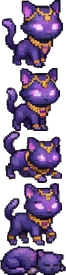
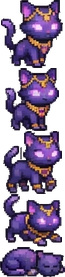
Thu cung: cat lai hinh (loc nen theo bang mau that, khong lung), thu nho khi ve
Claude-Session: https://claude.ai/code/session_01BbaPnvB8faX7q9HJ1URPie

diff --git a/public/js/pet.js b/public/js/pet.js
@@ -4,13 +4,15 @@
 (function () {
   const V = window.AV ? '?v=' + window.AV : '';
   const PETS = {
-    hong_long: { fly: 1, fireX: 0.83, glow: '#ff8a30' },
+    hong_long: { fly: 1, fireX: 0.83, glow: '#ff8a30', size: 0.6 },
     fauna:     { fly: 1, glow: '#9effa0' },
     fauna2:    { glow: '#7cff8a' },   // Mộc Linh Hộ Vệ (tiến hoá của Tiên Mộc Linh): đi bộ cầm giáo
     gears:     { glow: '#8fd0ff' },
     arcana:    { glow: '#d29cff' },
     ember:     { glow: '#ffa040' }
   };
+  const SIZE = 0.7;   // thu nhỏ thú cưng khi vẽ (hình gốc ~60px) – loài có size riêng thì dùng size đó
+  const sizeOf = pid => PETS[pid].size || SIZE;
   const res = {};
   for (const id in PETS) {
     const r = res[id] = { img: new Image(), meta: null };
@@ -83,9 +85,9 @@
   function aura(ctx, s, now, glow) {   // hào quang thú cưng Hiếm
     ctx.save(); ctx.globalCompositeOperation = 'lighter';
     const a = 0.35 + Math.sin(now / 300) * 0.12;
-    FX.glowDot(ctx, s.x, s.y - s.alt - 30, 46, glow, a, true);
+    const k = sizeOf(s.pid); FX.glowDot(ctx, s.x, s.y - s.alt - 30 * k, 46 * k, glow, a, true);
     ctx.restore();
-    if (Math.random() < 0.12) FX.emit(1, s.x + (Math.random() - 0.5) * 50, s.y - s.alt - 10 - Math.random() * 50, { speed: 10, vy: -25, life: 700, size: 2.5, color: glow, drag: 1 });
+    if (Math.random() < 0.12) FX.emit(1, s.x + (Math.random() - 0.5) * 50 * k, s.y - s.alt - (10 + Math.random() * 50) * k, { speed: 10, vy: -25, life: 700, size: 2.5, color: glow, drag: 1 });
   }
 
   function drawDragon(ctx, s, r, now) {
@@ -98,6 +100,7 @@
     else { row = meta.rows.idle; idx = Math.floor(now / 170) % row.n; }
     ctx.save();
     ctx.translate(Math.round(s.x), Math.round(s.y - (s.fireNow ? 0 : s.alt)));
+    ctx.scale(sizeOf(s.pid), sizeOf(s.pid));
     if (s.face === 1) ctx.scale(-1, 1);
     ctx.drawImage(r.img, idx * CW, row.y, CW, row.h, -CW / 2, -row.h, CW, row.h);
     ctx.restore();
@@ -137,6 +140,7 @@
     }
     ctx.save();
     ctx.translate(Math.round(s.x), Math.round(s.y - s.alt - bob));
+    ctx.scale(sizeOf(s.pid), sizeOf(s.pid));
     if (s.face === 1) ctx.scale(-1, 1);
     ctx.rotate(rot); ctx.scale(sx, sy);
     ctx.drawImage(r.img, idx * CW, row.y, CW, row.h, -CW / 2, -row.h, CW, row.h);
@@ -156,7 +160,7 @@
     const s = it.s, r = res[s.pid], P = PETS[s.pid];
     if (!s.fireNow) {   // bóng dưới đất, nhỏ dần khi bay cao
       const sh = Math.max(0.35, 1 - s.alt / 60);
-      ctx.fillStyle = `rgba(0,0,0,${0.25 * sh})`; ctx.beginPath(); ctx.ellipse(s.x, s.y, 24 * sh, 6 * sh, 0, 0, Math.PI * 2); ctx.fill();
+      ctx.fillStyle = `rgba(0,0,0,${0.25 * sh})`; ctx.beginPath(); ctx.ellipse(s.x, s.y, 24 * sh * sizeOf(s.pid), 6 * sh * sizeOf(s.pid), 0, 0, Math.PI * 2); ctx.fill();
     }
     if (s.rare) aura(ctx, s, now, P.glow);
     if (r.meta.simple) drawSimple(ctx, s, r, now); else drawDragon(ctx, s, r, now);

diff --git a/server/data/changelog.js b/server/data/changelog.js
@@ -32,7 +32,8 @@ const CHANGELOG = [
       '🐉 Hồng Long Ấu Thú (bản thử nghiệm) nay là thú cưng chính thức: vào túi đồ → Sử dụng để thu nhận vào bảng Thú cưng.',
       '🎞 Tiên Mộc Linh, Cơ Quan Khuyển và Hỏa Linh Tử có bộ chuyển động mới nhiều khung hình: đứng, bay / đi, chạy, ngồi nghỉ, tấn công, kỹ năng (Hỏa Linh Tử bắn cầu lửa, kỹ năng phun trào núi lửa).',
       '🌟 TIẾN HOÁ THÚ CƯNG: Tiên Mộc Linh đạt cấp 40 + 3 sao thì tiến hoá (20 Linh Thú Thạch + 500.000 lượng) thành Mộc Linh Hộ Vệ – hình mới cầm giáo, mang khiên; thuộc tính mạnh hơn (thêm phòng thủ), đánh thường x1,3, kỹ năng hồi 9% sinh lực. Giữ nguyên cấp, sao, phẩm chất.',
-      '↔ Thú cưng đứng yên giờ quay cùng hướng với chủ; khi di chuyển / tấn công quay theo hướng đi / hướng mục tiêu.'
+      '↔ Thú cưng đứng yên giờ quay cùng hướng với chủ; khi di chuyển / tấn công quay theo hướng đi / hướng mục tiêu.',
+      '🐾 Thú cưng thu nhỏ lại cho cân đối với nhân vật; sửa hình thú cưng bị khuyết / lủng chỗ (Mộc Linh Hộ Vệ, Cơ Quan Khuyển, Tiên Mộc Linh, Hỏa Linh Tử).'
     ]
   },
   {
